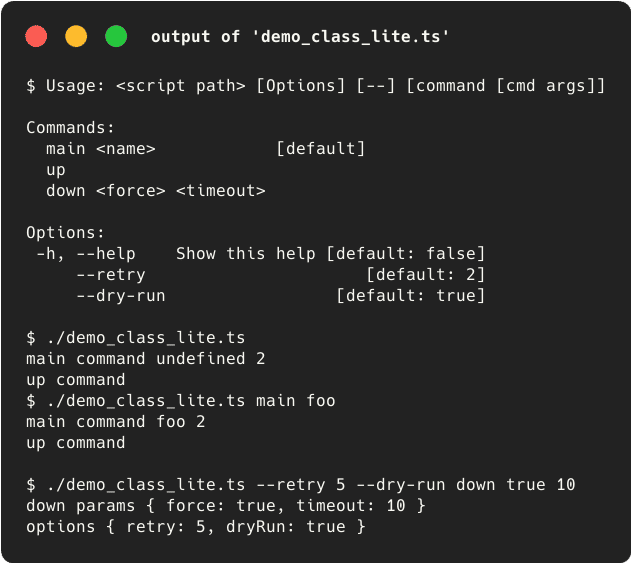
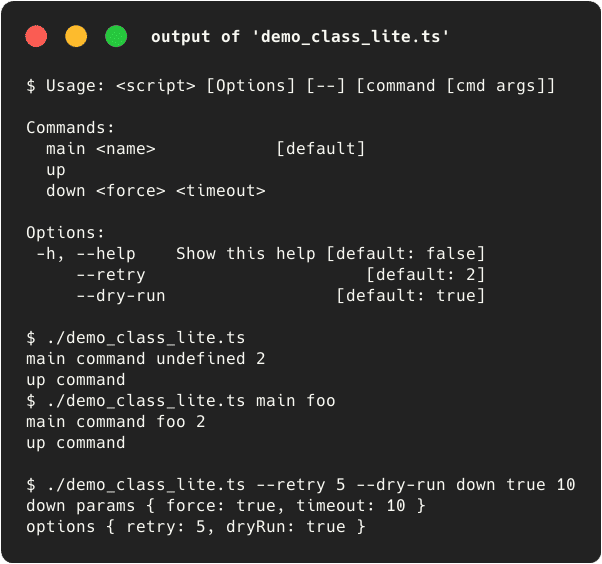
doc: update

diff --git a/examples/demo/demo_class_lite.ts b/examples/demo/demo_class_lite.ts
@@ -1,8 +1,11 @@
 #!/usr/bin/env node
+
 import { clinfer } from "clinfer";
+
 class Tool {
   retry = 2;
   dryRun = true;
+
   main(name: string) {
     console.log("main command", name, this.retry);
     this.up();
@@ -11,7 +14,7 @@ class Tool {
     console.log("up command");
   }
   down(force: boolean, timeout: number) {
-    console.log("down params", { force, timeout });
+    console.log("down parameters", { force, timeout });
     const { retry, dryRun } = this;
     console.log("options", { retry, dryRun });
   }

diff --git a/README.md b/README.md
@@ -18,23 +18,39 @@ them to your code, execute the right methods, and handle the help menu. You can
 then easily customize the generated help, add aliases, and fine-tune your CLI.
 **Example with an object :**
 
-<img src="examples/demo/demo_object_lite.ts.png" alt="examples/demo/demo_object_lite.ts.png" width="420" />
-<img src="examples/demo/demo_object_lite.ts.output.png" alt="examples/demo/demo_object_lite.ts.output.png" width="420" />
+<table>
+  <tr>
+    <td><img src="examples/demo/demo_object_lite.ts.png" alt="examples/demo/demo_object_lite.ts.png" width="100%" /></td>
+    <td><img src="examples/demo/demo_object_lite.ts.output.png" alt="examples/demo/demo_object_lite.ts.output.png" width="100%" /></td>
+  </tr>
+</table>
 
 **Example with a class :**
 
-<img src="examples/demo/demo_class_lite.ts.png" alt="examples/demo/demo_class_lite.ts.png" width="420" />
-<img src="examples/demo/demo_class_lite.ts.output.png" alt="examples/demo/demo_class_lite.ts.output.png" width="420" />
+<table>
+  <tr>
+    <td><img src="examples/demo/demo_class_lite.ts.png" alt="examples/demo/demo_class_lite.ts.png" width="100%" /></td>
+    <td><img src="examples/demo/demo_class_lite.ts.output.png" alt="examples/demo/demo_class_lite.ts.output.png" width="100%" /></td>
+  </tr>
+</table>
 
 **Example with a function :**
 
-<img src="examples/demo/demo_function.ts.png" alt="examples/demo/demo_function.ts.png" width="420" />
-<img src="examples/demo/demo_function.ts.output.png" alt="examples/demo/demo_function.ts.output.png" width="420" />
+<table>
+  <tr>
+    <td><img src="examples/demo/demo_function.ts.png" alt="examples/demo/demo_function.ts.png" width="100%" /></td>
+    <td><img src="examples/demo/demo_function.ts.output.png" alt="examples/demo/demo_function.ts.output.png" width="100%" /></td>
+  </tr>
+</table>
 
 **Example with a module (ESM) :**
 
-<img src="examples/demo/demo_module_lite.ts.png" alt="examples/demo/demo_module_lite.ts.png" width="420" />
-<img src="examples/demo/demo_module_lite.ts.output.png" alt="examples/demo/demo_module_lite.ts.output.png" width="420" />
+<table>
+  <tr>
+    <td><img src="examples/demo/demo_module_lite.ts.png" alt="examples/demo/demo_module_lite.ts.png" width="100%" /></td>
+    <td><img src="examples/demo/demo_module_lite.ts.output.png" alt="examples/demo/demo_module_lite.ts.output.png" width="100%" /></td>
+  </tr>
+</table>
 
 ## The help is generated automatically:
 
@@ -247,8 +263,12 @@ Options:
 
 ### Full example without decorator (Javascript)
 
-<img src="examples/demo/demo_class.ts.png" alt="examples/demo/demo_class.ts.png" width="420" />
-<img src="examples/demo/demo_class.ts.output.png" alt="examples/demo/demo_class.ts.output.png" width="420" />
+<table>
+  <tr>
+    <td><img src="examples/demo/demo_class.ts.png" alt="examples/demo/demo_class.ts.png" width="100%" /></td>
+    <td><img src="examples/demo/demo_class.ts.output.png" alt="examples/demo/demo_class.ts.output.png" width="100%" /></td>
+  </tr>
+</table>
 
 ```javascript
 import { clinfer } from "clinfer";